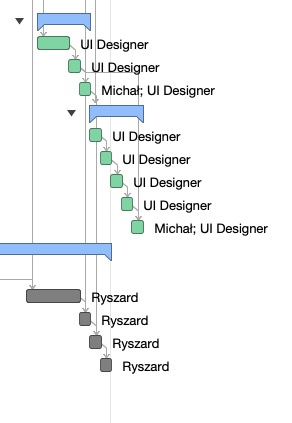
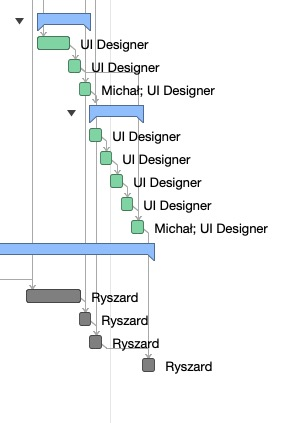
new v

Changed region(s): [[0.339, 0.5532, 0.5548, 0.7991], [0.339, 0.8298, 0.7397, 0.8913]]

diff --git a/task.html b/task.html
@@ -577,8 +577,8 @@
             <tr class="taskTypeGroup">
                 <td style="padding-left: 18px;" class="wrap">4) Webflow development</td>
                 <td>01/03/2023</td>
-                <td>31/03/2023</td>
-                <td>4w 3d</td>
+                <td>06/04/2023</td>
+                <td>5w 2d</td>
                 <td>0%</td>
                 <td></td>
                 <td align="right">13,320.00 PLN</td>
@@ -656,11 +656,11 @@
             </tr>
             <tr class="taskTypeTask">
                 <td style="padding-left: 28px;" class="wrap">4.5) Subbrands development</td>
-                <td>31/03/2023</td>
-                <td>31/03/2023</td>
+                <td>06/04/2023</td>
+                <td>06/04/2023</td>
                 <td>1d</td>
                 <td>0%</td>
-                <td>4.4</td>
+                <td>4.4, 3.7.5</td>
                 <td align="right">1,480.00 PLN</td>
                 <td>Ryszard</td>
                 <td></td>

diff --git a/gantt.html b/gantt.html
@@ -33,12 +33,12 @@
             <h1>Widelab WWW 2023: <span class="subtitle">Gantt Chart</span></h1>
           <div class="tablewrap">  <table border="0" cellspacing="0" cellpadding="0">
 <tr>
-	<td><img src="include/gantt0,0.jpg?nocacheTag=-1734544025" border=0/></td>
-	<td><img src="include/gantt1,0.jpg?nocacheTag=-1596675168" border=0/></td>
+	<td><img src="include/gantt0,0.jpg?nocacheTag=1221411432" border=0/></td>
+	<td><img src="include/gantt1,0.jpg?nocacheTag=-1038831396" border=0/></td>
 </tr>
 <tr>
-	<td><img src="include/gantt0,1.jpg?nocacheTag=1747939837" border=0/></td>
-	<td><img src="include/gantt1,1.jpg?nocacheTag=-1168181445" border=0/></td>
+	<td><img src="include/gantt0,1.jpg?nocacheTag=1730881349" border=0/></td>
+	<td><img src="include/gantt1,1.jpg?nocacheTag=264491344" border=0/></td>
 </tr>
 </table>
 </div>

diff --git a/resource.html b/resource.html
@@ -41,7 +41,7 @@
             <tr class="resource Staff">
                 <td style="padding-left: 10px;">Ryszard</td>
                 <td>01/03/2023</td>
-                <td>31/03/2023</td>
+                <td>06/04/2023</td>
                 <td>1w 4d</td>
                 <td>0%</td>
                 <td align="right">13,320.00 PLN</td>
@@ -80,8 +80,8 @@
             </tr>
             <tr>
                 <td style="padding-left: 18px;" class="wrap taskTypeTask">Subbrands development</td> 
-                <td>31/03/2023</td>
-                <td>31/03/2023</td>
+                <td>06/04/2023</td>
+                <td>06/04/2023</td>
                 <td>1d</td>
                 <td>0%</td>
                 <td align="right">1,480.00 PLN</td>

diff --git a/index.html b/index.html
@@ -38,7 +38,7 @@
 						<p>16/01/2023</p></li>
                     <li class="column"  id="endwrap">
 	                    <h3 id="end">End:</h3>
-						<p>05/04/2023</p>
+						<p>06/04/2023</p>
                     </li>
 
                 </ul>    	
